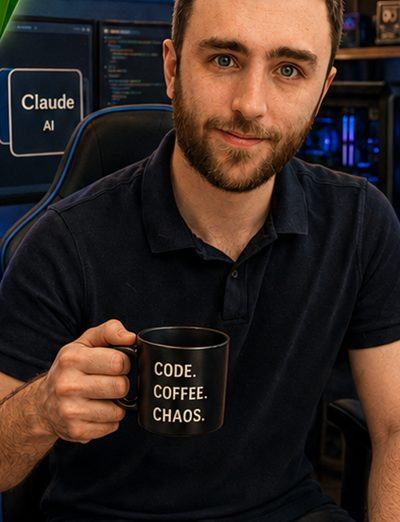
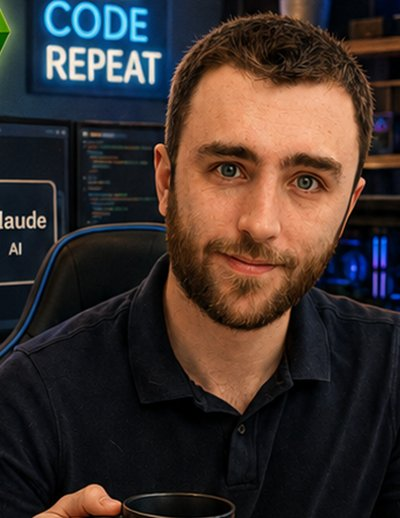
Fix portrait crop so the face is actually visible in the circle
Original crop included too much shoulder/torso, and object-fit:cover's
default center position was cropping into the top of the head in the
72px circle. Re-cropped tighter on the face for both Kirsten and Jack,
and set object-position to bias toward the top so this is robust to
future crops too, not just a one-off fix for these two images.

diff --git a/styles.css b/styles.css
@@ -303,7 +303,7 @@ button { font-family: inherit; font-size: inherit; cursor: pointer; }
   flex: 0 0 auto; width: 72px; height: 72px; border-radius: 50%; overflow: hidden;
   border: 2px solid var(--accent); box-shadow: 0 0 12px var(--accent-glow); position: relative;
 }
-.char-panel__portrait img { width: 100%; height: 100%; object-fit: cover; display: block; }
+.char-panel__portrait img { width: 100%; height: 100%; object-fit: cover; object-position: 50% 25%; display: block; }
 .char-panel__fallback {
   width: 100%; height: 100%; display: grid; place-items: center;
   background: var(--accent-soft); color: var(--accent); font-weight: 700; font-size: 1.6rem;
